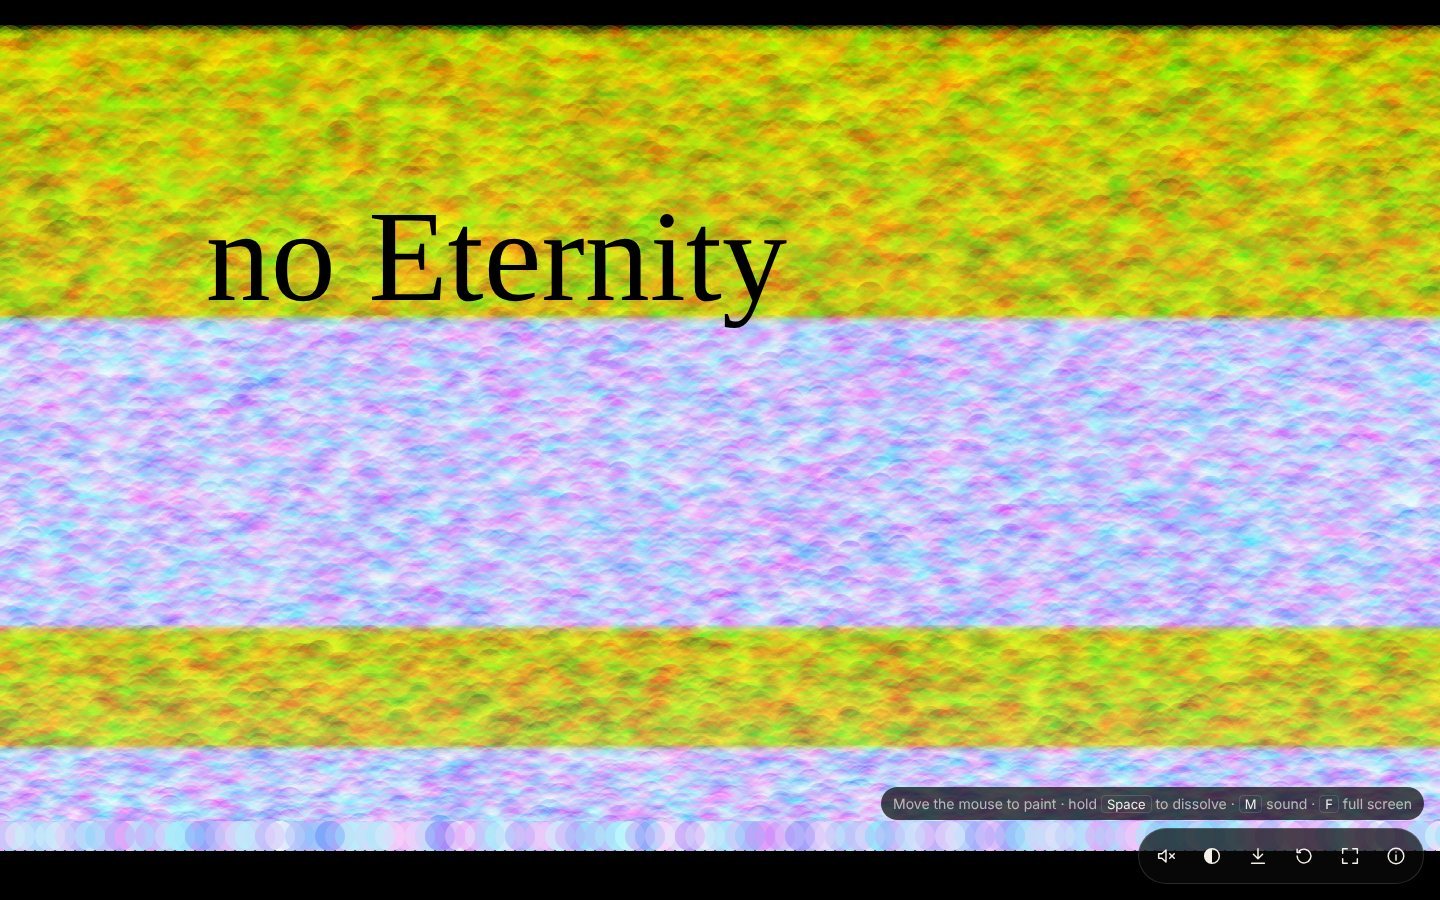
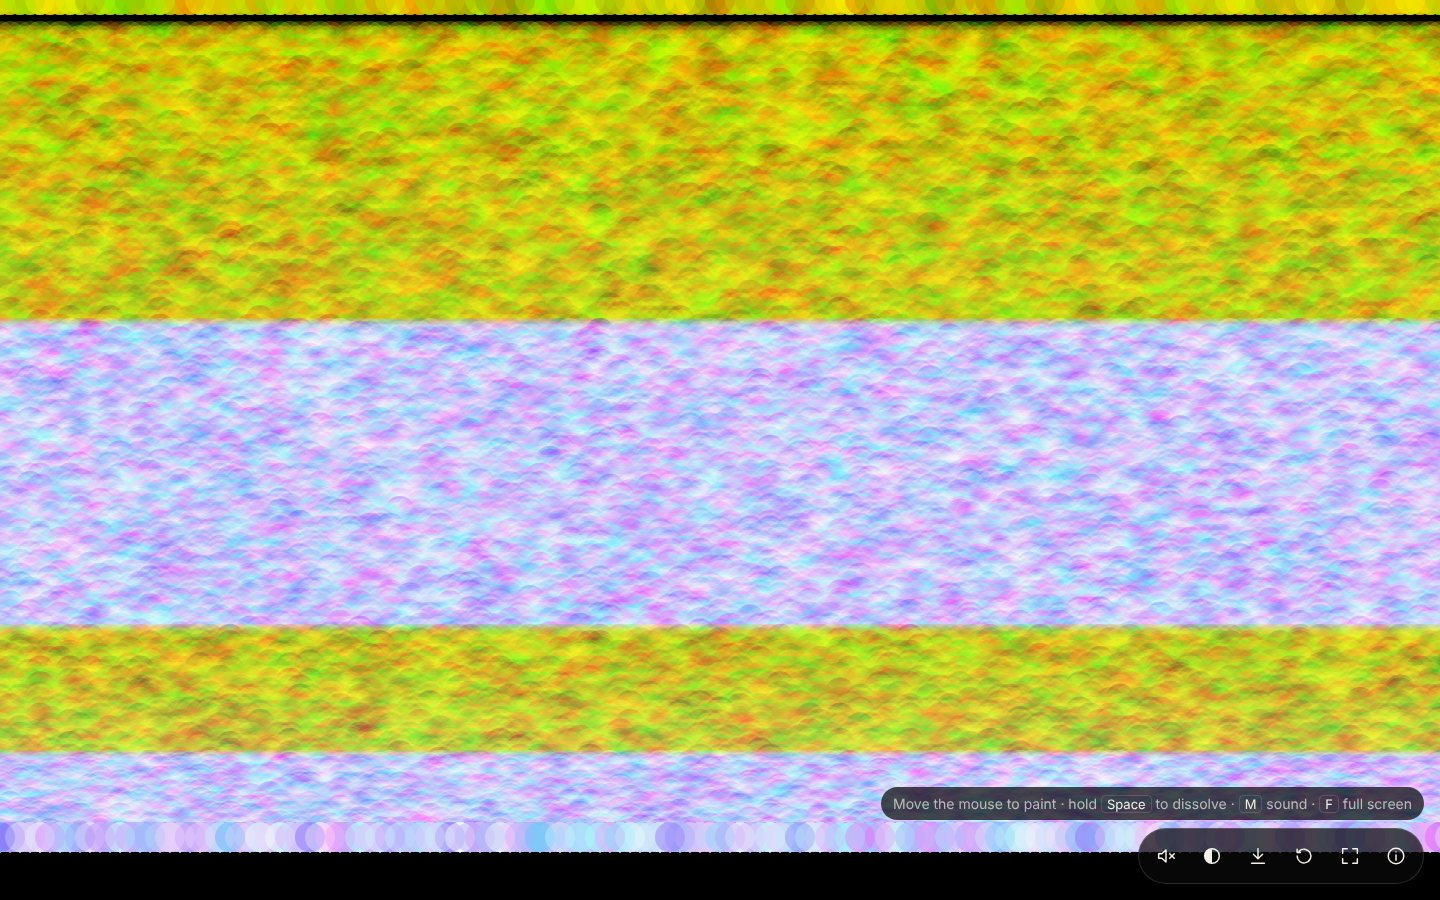
Remove the "no Eternity" text from the artwork
The site no longer writes the title over the picture, on screen or in
saved PNGs. The name stays where it names the work: the browser tab, the
About panel and the screen-reader heading.

Removes the title canvas layer and the text layout code, config and
tests. Saved PNGs are now sized from the viewport. The README screenshot
and the link-preview image are re-shot from the site without the text.

Claude-Session: https://claude.ai/code/session_01XVgZczKFYqVFKq4jrpoGZS

diff --git a/src/stage.ts b/src/stage.ts
@@ -5,10 +5,8 @@ import { InkMap } from './sketch/ink';
 import {
   blueAt,
   createDissolveState,
-  drawTitle,
   paintRow,
   scatter,
-  titleLayout,
   type CircleSample,
 } from './sketch/paint';
 import { createRng, randomSeed, type Rng } from './sketch/random';
@@ -45,7 +43,6 @@ export interface StepFrame {
 
 export interface StageElements {
   art: HTMLCanvasElement;
-  title: HTMLCanvasElement;
   /** An element sized `100lvh`, to size against the viewport with mobile browser bars hidden. */
   viewportProbe: HTMLElement;
 }
@@ -54,7 +51,7 @@ interface Viewport {
   width: number;
   /** What is visible right now. */
   height: number;
-  /** The largest height the browser can show; the title is laid out against this. */
+  /** The largest height the browser can show, with mobile browser bars hidden. */
   layoutHeight: number;
 }
 
@@ -73,8 +70,6 @@ export class Stage {
 
   readonly #art: HTMLCanvasElement;
   readonly #ctx: CanvasRenderingContext2D;
-  readonly #title: HTMLCanvasElement;
-  readonly #titleCtx: CanvasRenderingContext2D;
   readonly #probe: HTMLElement;
   readonly #reducedMotion = window.matchMedia('(prefers-reduced-motion: reduce)');
   readonly #rng: Rng;
@@ -97,14 +92,11 @@ export class Stage {
   #lastFrame = 0;
   #pending = 0;
 
-  constructor({ art, title, viewportProbe }: StageElements, seed = randomSeed()) {
+  constructor({ art, viewportProbe }: StageElements, seed = randomSeed()) {
     const ctx = art.getContext('2d', { alpha: false });
-    const titleCtx = title.getContext('2d');
-    if (!ctx || !titleCtx) throw new Error('This browser cannot draw on a canvas.');
+    if (!ctx) throw new Error('This browser cannot draw on a canvas.');
     this.#art = art;
     this.#ctx = ctx;
-    this.#title = title;
-    this.#titleCtx = titleCtx;
     this.#probe = viewportProbe;
     this.#rng = createRng(seed);
     this.#drift = createDrift(this.#rng);
@@ -135,7 +127,6 @@ export class Stage {
     if (dpr !== this.#dpr || width !== this.#size.width || height !== this.#size.height) {
       this.#resizeSurface(width, height, dpr);
     }
-    this.#drawTitleLayer();
   }
 
   /** Paint everything black again. */
@@ -164,15 +155,15 @@ export class Stage {
     this.#noteInput();
   }
 
-  /** The current screen, title included, as a PNG. */
+  /** The current screen as a PNG. */
   toBlob(): Promise<Blob> {
+    const { width, layoutHeight } = this.#viewport;
     const out = document.createElement('canvas');
-    out.width = this.#title.width;
-    out.height = this.#title.height;
+    out.width = Math.round(width * this.#dpr);
+    out.height = Math.round(layoutHeight * this.#dpr);
     const ctx = out.getContext('2d');
     if (!ctx) return Promise.reject(new Error('This browser cannot draw on a canvas.'));
     ctx.drawImage(this.#art, 0, 0);
-    ctx.drawImage(this.#title, 0, 0);
     return new Promise((resolve, reject) =>
       out.toBlob(
         (blob) => (blob ? resolve(blob) : reject(new Error('Could not encode the image.'))),
@@ -303,18 +294,5 @@ export class Stage {
     this.#dpr = dpr;
     this.#size = { width, height };
     this.#ink.resize(height);
-  }
-
-  #drawTitleLayer(): void {
-    const { width, layoutHeight } = this.#viewport;
-    const dpr = this.#dpr;
-    const canvas = this.#title;
-    canvas.width = Math.round(width * dpr);
-    canvas.height = Math.round(layoutHeight * dpr);
-    canvas.style.width = `${width}px`;
-    canvas.style.height = `${layoutHeight}px`;
-    const ctx = this.#titleCtx;
-    ctx.setTransform(dpr, 0, 0, dpr, 0, 0);
-    drawTitle(ctx, titleLayout(width, layoutHeight));
   }
 }

diff --git a/src/sketch/paint.test.ts b/src/sketch/paint.test.ts
@@ -4,20 +4,17 @@ import {
   blueAt,
   clampChannel,
   createDissolveState,
-  drawTitle,
   paintRow,
   scatter,
-  titleLayout,
   warmChannel,
   type PaintContext,
-  type TextContext,
 } from './paint';
 import { createRng } from './random';
 
 type Call = [method: string, ...args: unknown[]];
 
 /** Records what the painting code asks of a canvas. */
-function recorder(): PaintContext & TextContext & { calls: Call[]; fills: string[] } {
+function recorder(): PaintContext & { calls: Call[]; fills: string[] } {
   const calls: Call[] = [];
   const fills: string[] = [];
   const log =
@@ -36,8 +33,6 @@ function recorder(): PaintContext & TextContext & { calls: Call[]; fills: string
       fillStyle = value;
       fills.push(String(value));
     },
-    font: '',
-    textBaseline: 'alphabetic',
     beginPath: log('beginPath'),
     arc: log('arc'),
     fill: log('fill'),
@@ -46,7 +41,6 @@ function recorder(): PaintContext & TextContext & { calls: Call[]; fills: string
     restore: log('restore'),
     translate: log('translate'),
     rotate: log('rotate'),
-    fillText: log('fillText'),
   };
 }
 
@@ -151,28 +145,5 @@ describe('scatter (the original CLASS.display())', () => {
     expect(state.angle).toBeCloseTo(10 + 133 * 0.1);
     scatter(recorder(), createRng(1), state);
     expect(state.angle).toBeCloseTo(10 + 266 * 0.1);
-  });
-});
-
-describe('title', () => {
-  it('puts the baseline at (width/7, height/3) like the original', () => {
-    const layout = titleLayout(1400, 900);
-    expect(layout.x).toBeCloseTo(200);
-    expect(layout.y).toBeCloseTo(300);
-  });
-
-  it('matches the 2015 promo proportions and never gets unreadably small', () => {
-    expect(titleLayout(1024, 500).size).toBe(92);
-    expect(titleLayout(2560, 600).size).toBe(120);
-    expect(titleLayout(200, 300).size).toBe(SKETCH.titleMinSize);
-  });
-
-  it('draws "no Eternity" in black on the baseline', () => {
-    const ctx = recorder();
-    const layout = titleLayout(700, 700);
-    drawTitle(ctx, layout);
-    expect(ctx.font).toBe(layout.font);
-    expect(ctx.fills).toEqual(['#000']);
-    expect(ctx.calls).toContainEqual(['fillText', 'no Eternity', layout.x, layout.y]);
   });
 });

diff --git a/src/sketch/paint.ts b/src/sketch/paint.ts
@@ -6,10 +6,6 @@ export type PaintContext = Pick<
   CanvasRenderingContext2D,
   'fillStyle' | 'beginPath' | 'arc' | 'fill' | 'rect' | 'save' | 'restore' | 'translate' | 'rotate'
 >;
-export type TextContext = Pick<
-  CanvasRenderingContext2D,
-  'font' | 'textBaseline' | 'fillStyle' | 'fillText' | 'save' | 'restore'
->;
 
 const TAU = Math.PI * 2;
 const ALPHA = +(SKETCH.alpha / 255).toFixed(4);
@@ -95,35 +91,5 @@ export function scatter(ctx: PaintContext, rng: Rng, state: DissolveState): void
     }
   }
   ctx.fill();
-  ctx.restore();
-}
-
-export interface TitleLayout {
-  x: number;
-  y: number;
-  size: number;
-  font: string;
-}
-
-export function titleLayout(width: number, height: number): TitleLayout {
-  const size = Math.max(
-    SKETCH.titleMinSize,
-    Math.round(Math.min(width * SKETCH.titleSizeOfWidth, height * SKETCH.titleSizeOfHeight)),
-  );
-  return {
-    x: width * SKETCH.titleX,
-    y: height * SKETCH.titleY,
-    size,
-    font: `${size}px ${SKETCH.titleFont}`,
-  };
-}
-
-/** `text("no Eternity", x, y)` in black, with `y` as the baseline like Processing. */
-export function drawTitle(ctx: TextContext, layout: TitleLayout): void {
-  ctx.save();
-  ctx.font = layout.font;
-  ctx.textBaseline = 'alphabetic';
-  ctx.fillStyle = '#000';
-  ctx.fillText(SKETCH.title, layout.x, layout.y);
   ctx.restore();
 }

diff --git a/src/sketch/config.ts b/src/sketch/config.ts
@@ -6,8 +6,6 @@
  * Distances are CSS pixels, so the piece looks the same on every screen density.
  */
 export const SKETCH = {
-  title: 'no Eternity',
-
   /** `for (int i = 0; i < 10000; i += 10)`: gap between circle centres in a row. */
   spacing: 10,
   /** `ellipse(i, mouseY, 30, 30)`: circle diameter. */
@@ -24,14 +22,7 @@ export const SKETCH = {
    */
   blueFullAt: 0.3,
 
-  /** `text("no Eternity", displayWidth/7, displayHeight/3)`: the baseline position. */
-  titleX: 1 / 7,
-  titleY: 1 / 3,
-  /** The 2015 promo art used the 90–100px font at ~1024px wide; scale it with the screen. */
-  titleSizeOfWidth: 0.09,
-  titleSizeOfHeight: 0.2,
-  titleMinSize: 24,
-  titleFont: '"Times New Roman", Times, "Liberation Serif", "Noto Serif", serif',
+  // The original also wrote "no Eternity" over the picture with `text()`; the website leaves it out.
 
   /** Processing's default frame rate. The simulation runs at this rate on any display. */
   stepsPerSecond: 60,

diff --git a/index.html b/index.html
@@ -23,7 +23,7 @@
     <meta property="og:image" content="__SITE_URL__/og-image.jpg" />
     <meta property="og:image:width" content="1200" />
     <meta property="og:image:height" content="630" />
-    <meta property="og:image:alt" content="The words “no Eternity” in black over bands of translucent coloured circles." />
+    <meta property="og:image:alt" content="Bands of translucent coloured circles, yellow-green and pale violet, across a black screen." />
     <meta name="twitter:card" content="summary_large_image" />
 
     <script type="module" src="/src/main.ts"></script>
@@ -37,7 +37,6 @@
         role="img"
         aria-label="An ever-changing field of translucent coloured circles. Move the pointer or touch to paint; the arrow keys move the brush too."
       ></canvas>
-      <canvas id="title" class="title-layer" aria-hidden="true"></canvas>
     </main>
 
     <p class="hint" aria-hidden="true">

diff --git a/src/main.ts b/src/main.ts
@@ -11,7 +11,6 @@ function byId<T extends HTMLElement>(id: string): T {
 
 const stage = new Stage({
   art: byId('art'),
-  title: byId('title'),
   viewportProbe: byId('viewport-probe'),
 });
 

diff --git a/src/styles.css b/src/styles.css
@@ -51,10 +51,6 @@ body {
   display: block;
 }
 
-.title-layer {
-  pointer-events: none;
-}
-
 body[data-ui='hidden'] .stage {
   cursor: none;
 }

diff --git a/docs/REVIEW.md b/docs/REVIEW.md
@@ -18,18 +18,18 @@ A review of the 2015 Processing for Android project (its sketch now lives in `ar
 | 1 | Android-only, and stuck on API level 10 (Android 2.3). Google Play has required much newer target APIs for years, so the listing is probably hidden or removed for current devices. (I couldn't check this from the build environment.) | A website for desktop browsers that also works on phones and tablets. The Android project files are removed. |
 | 2 | The dissolve effect (`CLASS.display()`) is dead code without the sensors. | Brought back as a hold gesture (the ◐ button or the space bar). Holding the button with one finger while painting with another works like the original's separate sensors. |
 | 3 | Only one touch is used. | Every finger paints its own band. |
-| 4 | Sizes are raw device pixels, so the piece looks different on every screen density. The blue channel maxes out at a different point on every device. | Sizes are CSS pixels. Blue maxes out at a fixed fraction (30%) of the width, which keeps the 2015 phone feel on any screen. The title scales with the screen, matching the proportions of the promo art. |
+| 4 | Sizes are raw device pixels, so the piece looks different on every screen density. The blue channel maxes out at a different point on every device. | Sizes are CSS pixels. Blue maxes out at a fixed fraction (30%) of the width, which keeps the 2015 phone feel on any screen. |
 | 5 | Always draws 1,000 circles per frame, even off screen. | Draws only enough circles to cover the width. |
 | 6 | Speed depends on the device: slow phones paint more slowly, and on 120 Hz screens it would paint twice as fast. | A fixed 60 steps per second, so it builds up the same way everywhere. |
 | 7 | A "screen saver" that does nothing until touched. | After 6 seconds without input, an invisible hand keeps wandering and painting. Turned off for visitors who ask their system for reduced motion. |
 | 8 | Nothing can be kept. | Save to PNG (the share sheet on phones). |
-| 9 | 1.9 MB of bitmap fonts (`.vlw`) just for the title. | Uses the system serif. No font download. |
+| 9 | "no Eternity" written over the picture, using 1.9 MB of bitmap fonts (`.vlw`). | No text over the picture, so no fonts to download. The name stays in the page title and the About panel. |
 | 10 | No way to start over. | A Clear button. |
 | 11 | No tests or build checks. | Unit tests for the ported drawing logic, a typecheck, and a GitHub Actions workflow that runs both plus the build on every pull request. |
 | 12 | macOS metadata files (`.DS_Store`, `._*`) committed. | Removed, and ignored in `.gitignore`. |
 | 13 | Silent. | Optional generative sound that follows the picture: height is pitch, colour is tone, new paint rings out, fullness sets the reverb, and dissolving blurs the sound. Off until the visitor turns it on. |
 
-The look follows the original closely: the same circle size, spacing, opacity, colour distribution and accumulation, the same title position, and the same dissolve loops, ported line by line. Resizing the window or rotating a phone keeps the picture instead of wiping it.
+The look follows the original closely: the same circle size, spacing, opacity, colour distribution and accumulation, and the same dissolve loops, ported line by line. Resizing the window or rotating a phone keeps the picture instead of wiping it.
 
 ## Still to decide (needs the owner)
 

diff --git a/README.md b/README.md
@@ -71,14 +71,14 @@ Link previews (for example in messages and social posts) use the production doma
 
 ### Change the artwork
 
-Every tunable value is in [`src/sketch/config.ts`](src/sketch/config.ts): circle size and spacing, opacity, colour ranges, title, screen-saver speed and the dissolve effect. Each value is annotated with the line of the original sketch it comes from.
+Every tunable value is in [`src/sketch/config.ts`](src/sketch/config.ts): circle size and spacing, opacity, colour ranges, screen-saver speed and the dissolve effect. Each value is annotated with the line of the original sketch it comes from.
 
 | Original (`archive/noEternity/*.pde`)                       | Web (`src/`)                                    |
 | ----------------------------------------------------------- | ----------------------------------------------- |
 | `one()`: a row of circles at `mouseY`                       | `paintRow()` in `sketch/paint.ts`               |
 | `fill(random(10,555), random(10,555), mouseX, 40)`          | `warmChannel()` and `blueAt()`                  |
 | `CLASS.display()`: `filter(BLUR)` + rotating black squares  | `blurInPlace()` + `scatter()`                   |
-| `text("no Eternity", displayWidth/7, displayHeight/3)`      | `drawTitle()` / `titleLayout()`                 |
+| `text("no Eternity", displayWidth/7, displayHeight/3)`      | left out: no text over the picture              |
 | `draw()` at 60 fps, never clearing the background           | the fixed 60 Hz loop in `stage.ts`              |
 | Arduino sensors 3 and 4 trigger `CLASS.display()`           | the ◐ button and the space bar                  |
 | (no sound)                                                  | `sound/engine.ts`, following `sketch/ink.ts`    |

diff --git a/archive/README.md b/archive/README.md
@@ -5,7 +5,7 @@
 - `noEternity.pde`: the main sketch, which paints rows of translucent circles where you touch.
 - `CLASS.pde`: the blur-and-black-squares "dissolve" effect.
 - `data/`: the bitmap fonts the sketch used for its title.
-- `icon.png`, `Untitled-2.png`, `Untitled-2.jpg`: the app icon and promotional art. The website's icons and link-preview image are made from these.
+- `icon.png`, `Untitled-2.png`, `Untitled-2.jpg`: the app icon and promotional art. The website's icons are made from `icon.png`.
 
 ## The sensor version
 
